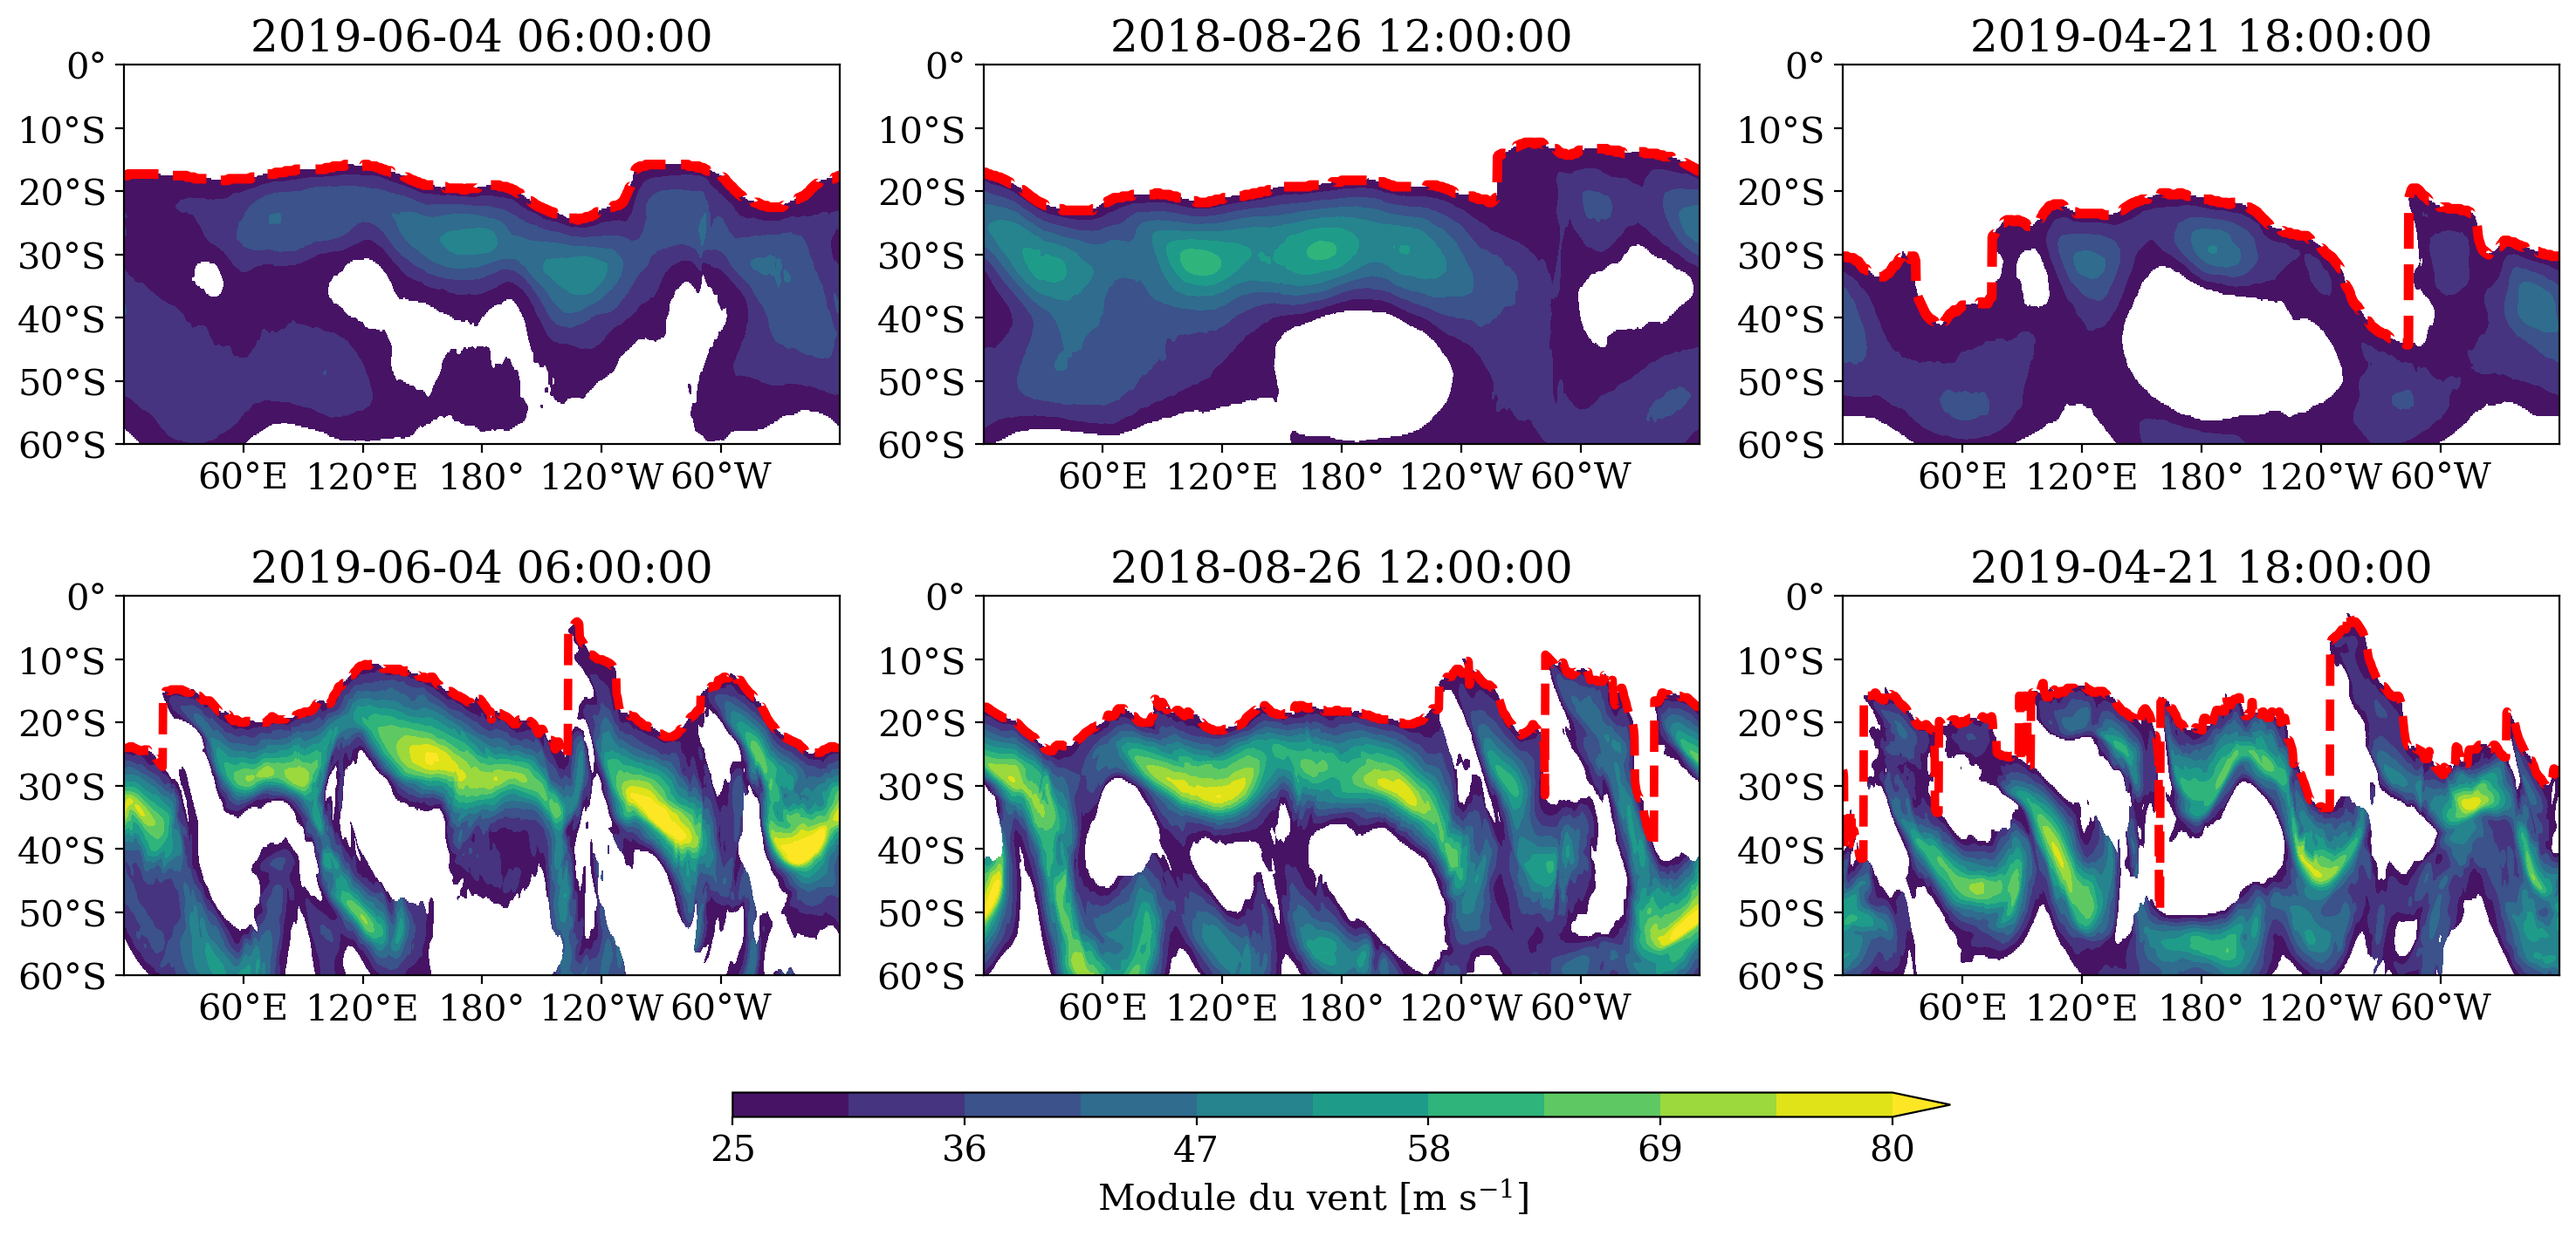
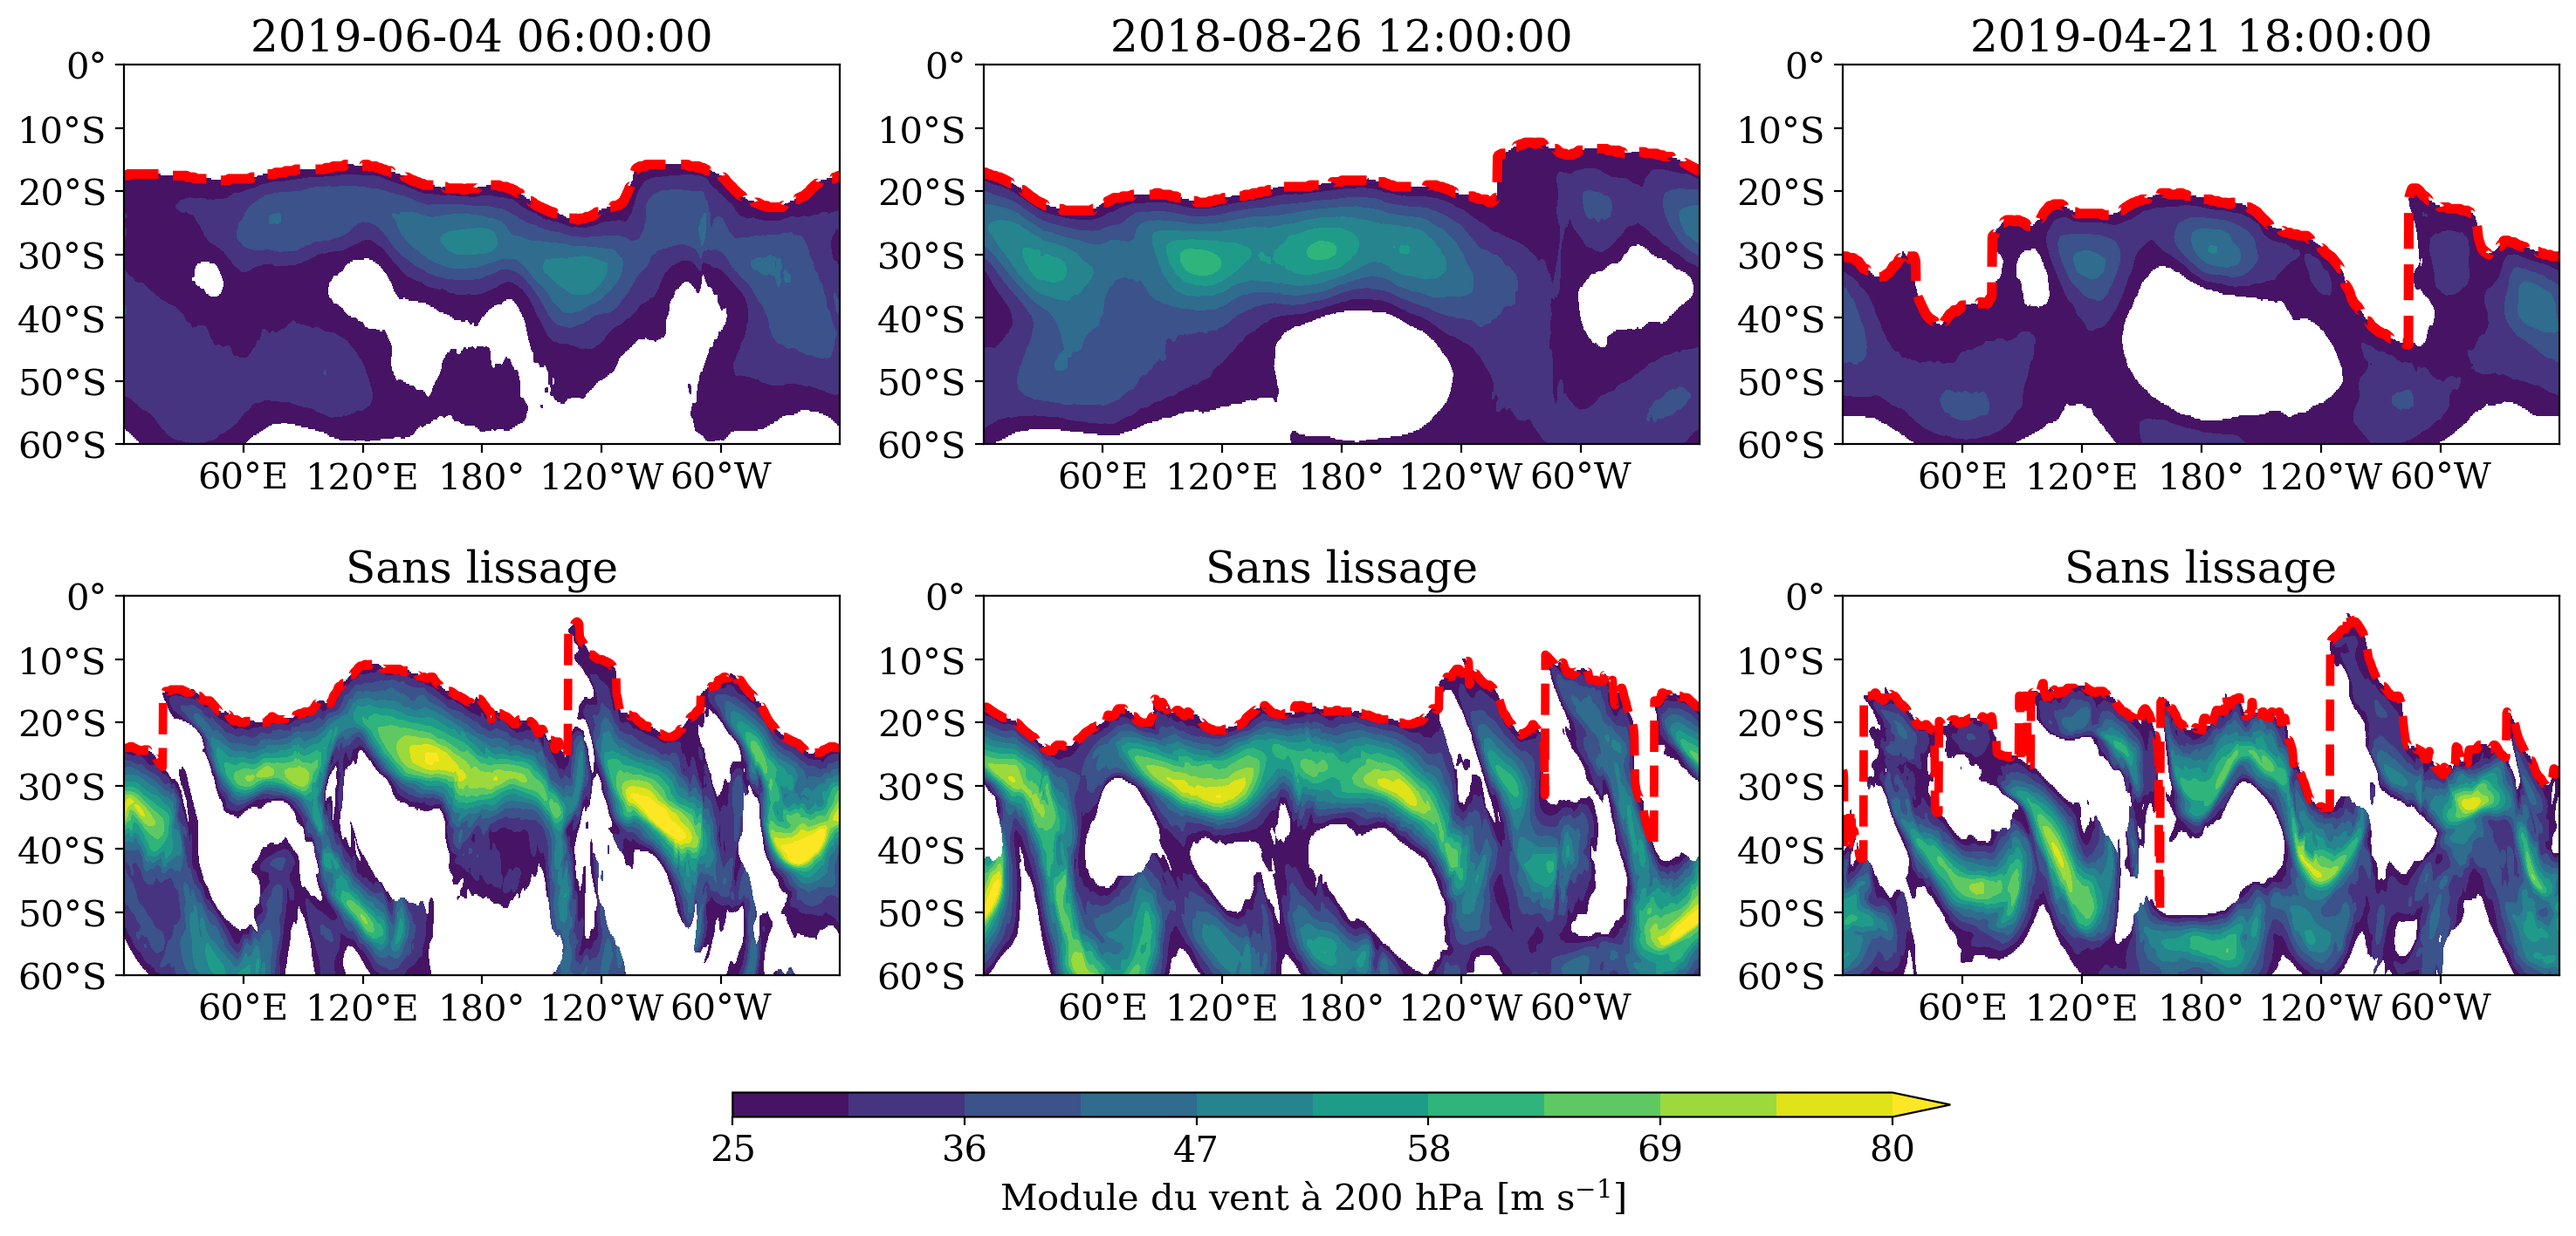
Avancement rédaction filtres

diff --git a/Chapitres/chapitre2.tex b/Chapitres/chapitre2.tex
@@ -207,9 +207,9 @@ latitude, ce qui peut constituer un gain de temps considérable si les systèmes
 \begin{figure}[htbp]
     \centering
     \includegraphics[width=\textwidth]{geopdy_clim_NH_SH.png}
-    \caption{Diagramme de Hovmöller de la climatologie mensuelle de la latitude du gradient maximal de géopotentiel à \hPa{200}, pour l'hémisphère nord (a) et
-    sud (b), calculée de \num{1980} à \num{2020} avec la réanalyse ERA5. Contours de \ang{30}N à \ang{50}N (respectivement Sud) par pas de \ang{2}.
-    L'utilisation de contours dans cette figure rend le diagramme imparfaitement périodique.}
+    \caption{Diagramme de Hovmöller de la climatologie mensuelle de la latitude du gradient maximal de géopotentiel à \hPa{200}, lissée par un filtre gaussien,
+    pour l'hémisphère nord (a) et sud (b), calculée de \num{1980} à \num{2020} avec la réanalyse ERA5. Contours de \ang{30}N à \ang{50}N (respectivement Sud)
+    par pas de \ang{2}. L'utilisation de contours dans cette figure rend le diagramme imparfaitement périodique.}
     \label{fig:geopdy_clim}
 \end{figure}
 
@@ -237,11 +237,11 @@ gradient dans les latitudes plus proches du pôle, si bien que la latitude du gr
 fonctionnement du schéma de détection, \ang{60}S, comme par exemple à la date du 2018--09--12 (2\ieme~ligne 2\ieme~colonne), autour de \ang{60}E (bassin SInd)
 ainsi qu'entre \ang{120}W et \ang{60}W (SPac), ce qui est essentiellement équivalent à ne pas avoir de filtre.
 %
-\begin{figure}[htpb]
+\begin{figure}[tb]
     \centering
     \includegraphics[width=\textwidth]{geopdy_random_dates.png}
-    \caption{Gradient méridional de la hauteur géopotentielle à \hPa{200} pour 6 échéances tirées aléatoirement dans la saison 2019 de l'hémisphère sud dans la
-    réanalyse ERA5. Le tracé noir relie les points du gradient maximal pour chaque longitude.}
+    \caption{Gradient méridional de la hauteur géopotentielle à \hPa{200} pour 6 échéances tirées aléatoirement dans la saison cyclonique 2019 de l'hémisphère
+    sud dans la réanalyse ERA5. Le tracé noir relie les points de gradient maximal pour chaque longitude.}
     \label{fig:geopdy_random}
 \end{figure}
 
@@ -253,17 +253,57 @@ employé une approche similaire basée sur un diagnostique différent du jet sub
 le diagnostique du jet subtropical, ou STJ (\textit{Subtropical Jet}) consiste à lisser les composantes horizontales $u$ et $v$ du vent à \hPa{200} avec une
 fenêtre glissante de 30 jours, puis à déterminer la région dans laquelle le module du vent est supérieur à \ms{25} et où la composante zonale $u$ est supérieure
 à \ms{15}. Le seuil en latitude du filtre est ensuite défini en prenant la limite équatoriale de la zone où ces conditions sont réunies, où en interpolant
-linéairement entre les deux points les plus proches dans l'éventualité où le STJ ne soit pas défini sur une tranche de longitude donnée. Le lissage temporel sur
-30 jours glissants est utile pour avoir un STJ bien défini, mais tout type de lissage temporel rend une implémentation online impossible, si bien que ce type de
-filtre ne peut que s'appliquer comme un post-traitement.
+linéairement entre les deux points les plus proches dans l'éventualité où le STJ ne serait pas défini sur une tranche de longitude donnée, et en interpolant
+temporellement en dernier recours si aucun point ne remplit les critères à un pas de temps donné. Le lissage temporel sur 30 jours glissants est utile pour
+avoir un STJ bien défini, mais tout type de lissage temporel rend une implémentation online impossible, si bien que ce type de filtre ne peut que s'appliquer
+comme un post-traitement.
 
-\begin{figure}[htpb]
+La \cref{fig:STJ_random} illustre le fonctionnement du filtre du STJ, en montrant pour les trois dates prises comme exemple sur la 1\iere~ligne de la
+\cref{fig:geopdy_random}, la région où $\sqrt{u^2 + v^2} > \ms{25}$ et $u > \ms{15}$, accompagnée de la limite équatoriale de cette zone indiquée par les tirets
+rouges. Le diagnostique du jet subtropical apparaît comme nettement plus lisse que le filtre du gradient de géopotentiel, et est également situé plus proche de
+l'équateur, même en mettant de côté l'effet dents de scie du gradient de $Z_{200}$. La proximité avec l'équateur s'explique par la caractéristique du STJ à
+prendre la limite équatorielle plutôt que le maximum du champ, tandis que le lissage sur 30 jours glissants permet d'atteindre une meilleure homogénéité en
+longitude. En effet la 2\ieme~ligne de la \cref{fig:STJ_random} présente le diagnostique établi sur les trois mêmes dates sur les composantes du vent non
+lissées et montre une plus grande irrégularité dans le placement du STJ. Sur la 3\ieme~colonne, à la date du 2019--04--21, cela se traduit par le même effet que
+pour le filtre précédent, avec des chutes brutales de la limite équatoriale du jet vers le pôle. Le diagnostique réalisé sans lissage temporel met illustre la
+grande proximité conceptuelle entre les deux filtres, puisque la structure des régions remplissant les deux conditions correspond très fidèlement aux zones de
+fort gradient de géopotentiel présentées sur la 1\iere~ligne de la \cref{fig:geopdy_random}, l'intensité des courants jets à \hPa{200} étant directement
+proportionnelle à $\partial Z_{200} / \partial \phi$. Il en résulte que le lissage temporel préalable des champs concernés constitue la différence fondamentale
+entre les deux méthodologies.
+
+\begin{figure}[tb]
     \centering
     \includegraphics[width=\textwidth]{STJ_mask_random.png}
     \caption{Principe de fonctionnement du diagnostique du jet subtropical pour les trois dates de la première ligne de la \cref{fig:geopdy_random}. La seconde
     ligne applique le diagnostique aux trois mêmes dates avec le vent instantané non lissé. Le tracé en tirets rouge indique la limite équatoriale du jet
     subtropical ainsi déterminé.}
     \label{fig:STJ_random}
+\end{figure}
+
+Les performances du STJ sont discutées dans \cite{bourdin_intercomparison_2022}, et l'efficacité de ce système n'est pas à démontrer. En particulier,
+\cite{bourdin_intercomparison_2022} mesure un taux de faux positifs à \prct{15} avec le STJ sur le traqueur du CNRM à l'échelle globale. Notons que le STJ
+appliqué au traqueur CNRM dans \cite{bourdin_intercomparison_2022} produit par ailleurs un FAR d'environ \prct{30} dans le bassin SPac, ce qui est en dessous
+des \prct{42} notés dans \cite{dulac_assessing_2023} avec le $V_U^T$. \cite{bourdin_intercomparison_2022} justifient également le choix du STJ par rapport au
+$V_U^T$ par le coût supplémentaire en probabilité de détection que ce dernier représente. Chercher à diagnostiquer objectivement la présence d'un courant jet
+peut néanmoins parfois mener à des résultats inattendus qui peuvent alors compromettre la définition du seuil en latitude pour le schéma de détection de TC. La
+\cref{fig:geopdy_and_STJ} présente trois cas sélectionnés durant l'année 2017 dans l'hémisphère nord qui illustrent cela, avec d'un côté de la figure une carte
+de l'hémisphère montrant le seuil méridional déterminé par les deux méthodologies, et l'autre côté montrant le courant diagnostiqué à cette échéance. Le premier
+cas (1\iere~ligne) montre un STJ diagnostiqué (encadré de droite) épars avec des parcelles de vent fort à différentes latitudes, si bien que la limite
+équatoriale subit des sauts soudains de plus de \ang{20}, comparables dans leur amplitude aux sauts réalisés par le filtre du gradient de géopotentiel. Le
+second cas (2\ieme~ligne) présente un jet subtropical presque absent, avec deux parcelles principales dont le vent ne dépasse pas \ms{40}, l'un autour de
+\ang{60}E et l'autre centré sur \ang{60}W. Notons que dans ces cas où le jet n'est pas défini sur les extrémités latérales du domaine, l'interpolation linéaire
+se fait temporellement. Les cas où le courant jet est faible et seulement partiellement défini sont nombreux durant la saison estivale, tout du moins durant
+l'année 2017. Dans ces cas là, le caractère lisse de la limite équatoriale du STJ est très largement le résultat de l'interpolation. Le troisième cas
+(3\ieme~ligne) présente une situation où du vent fort est identifié au niveau de l'équateur, causant une chute de la latitude issue du diagnostique à \ang{0}N.
+
+\begin{figure}[tb]
+    \centering
+    \includegraphics[width=\textwidth]{geopdy_and_STJ.png}
+    \caption{Comparaison de la latitude du jet subtropical avec la latitude du maximum de gradient de géopotentiel pour trois échéances de la saison cyclonique
+    2017 de l'hémisphère nord dans lesquels le STJ n'est pas clairement défini. La carte de gauche présente les deux limites en latitude sur fond du champ de
+    hauteur géopotentielle à \hPa{200}, tandis que l'encadré de droite présente le jet subtropical diagnostiqué, dont la limite équatoriale détermine le tracé rouge
+    sur la carte. Pour chaque date, les deux encadrés couvrent l'entièreté de l'hémisphère nord jusqu'à \ang{60}N, en dépit de leur largeur différentes.}
+    \label{fig:geopdy_and_STJ}
 \end{figure}
 
 \newpage
